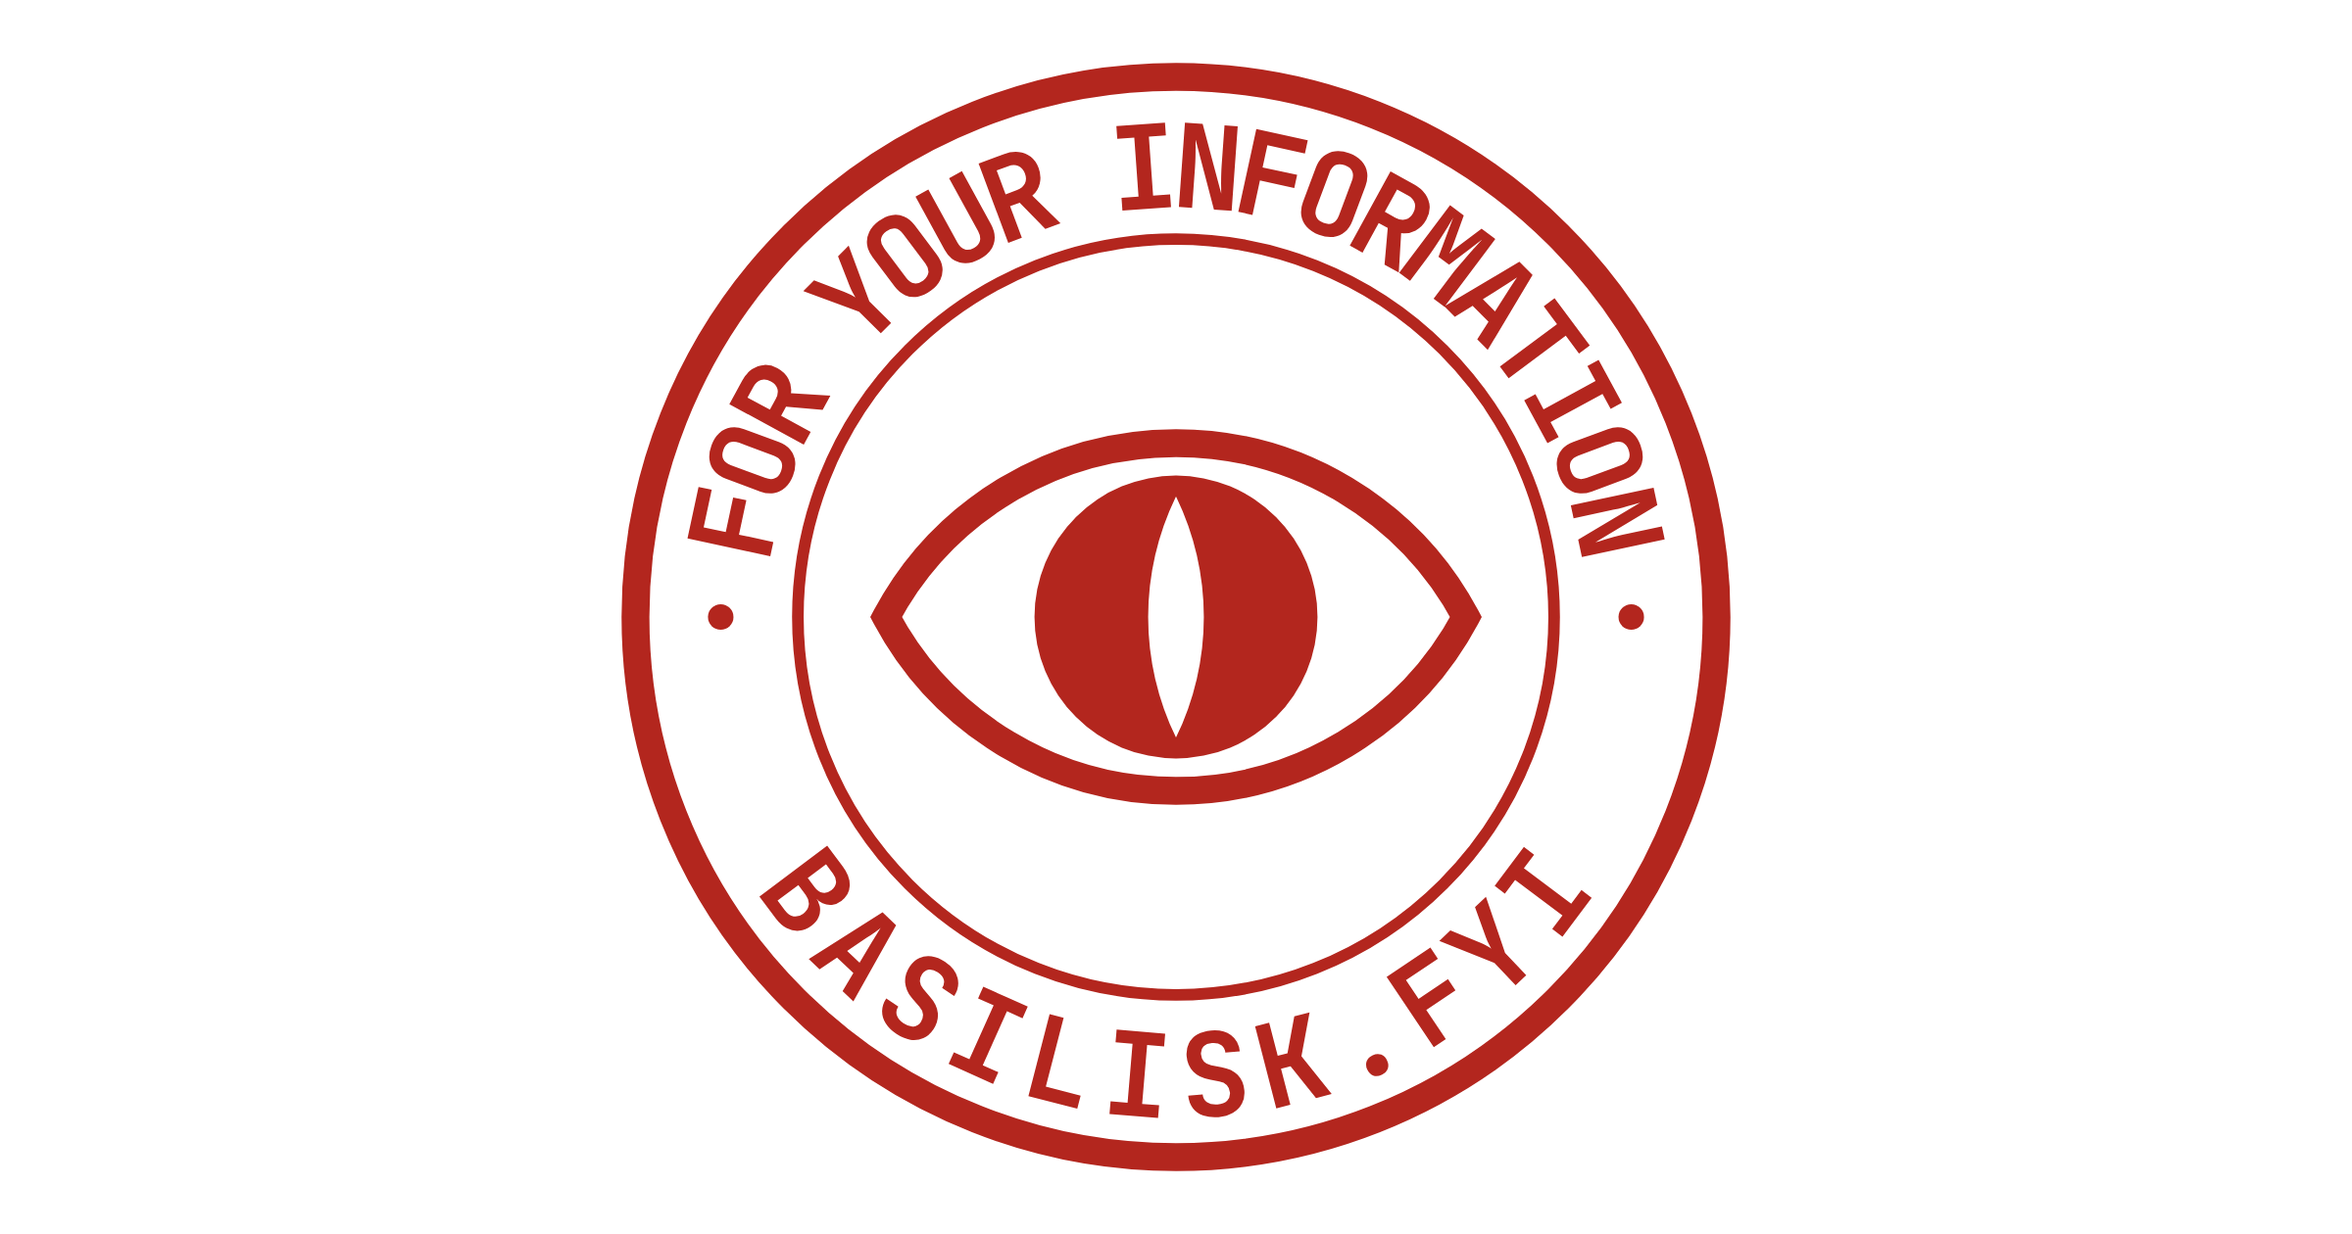
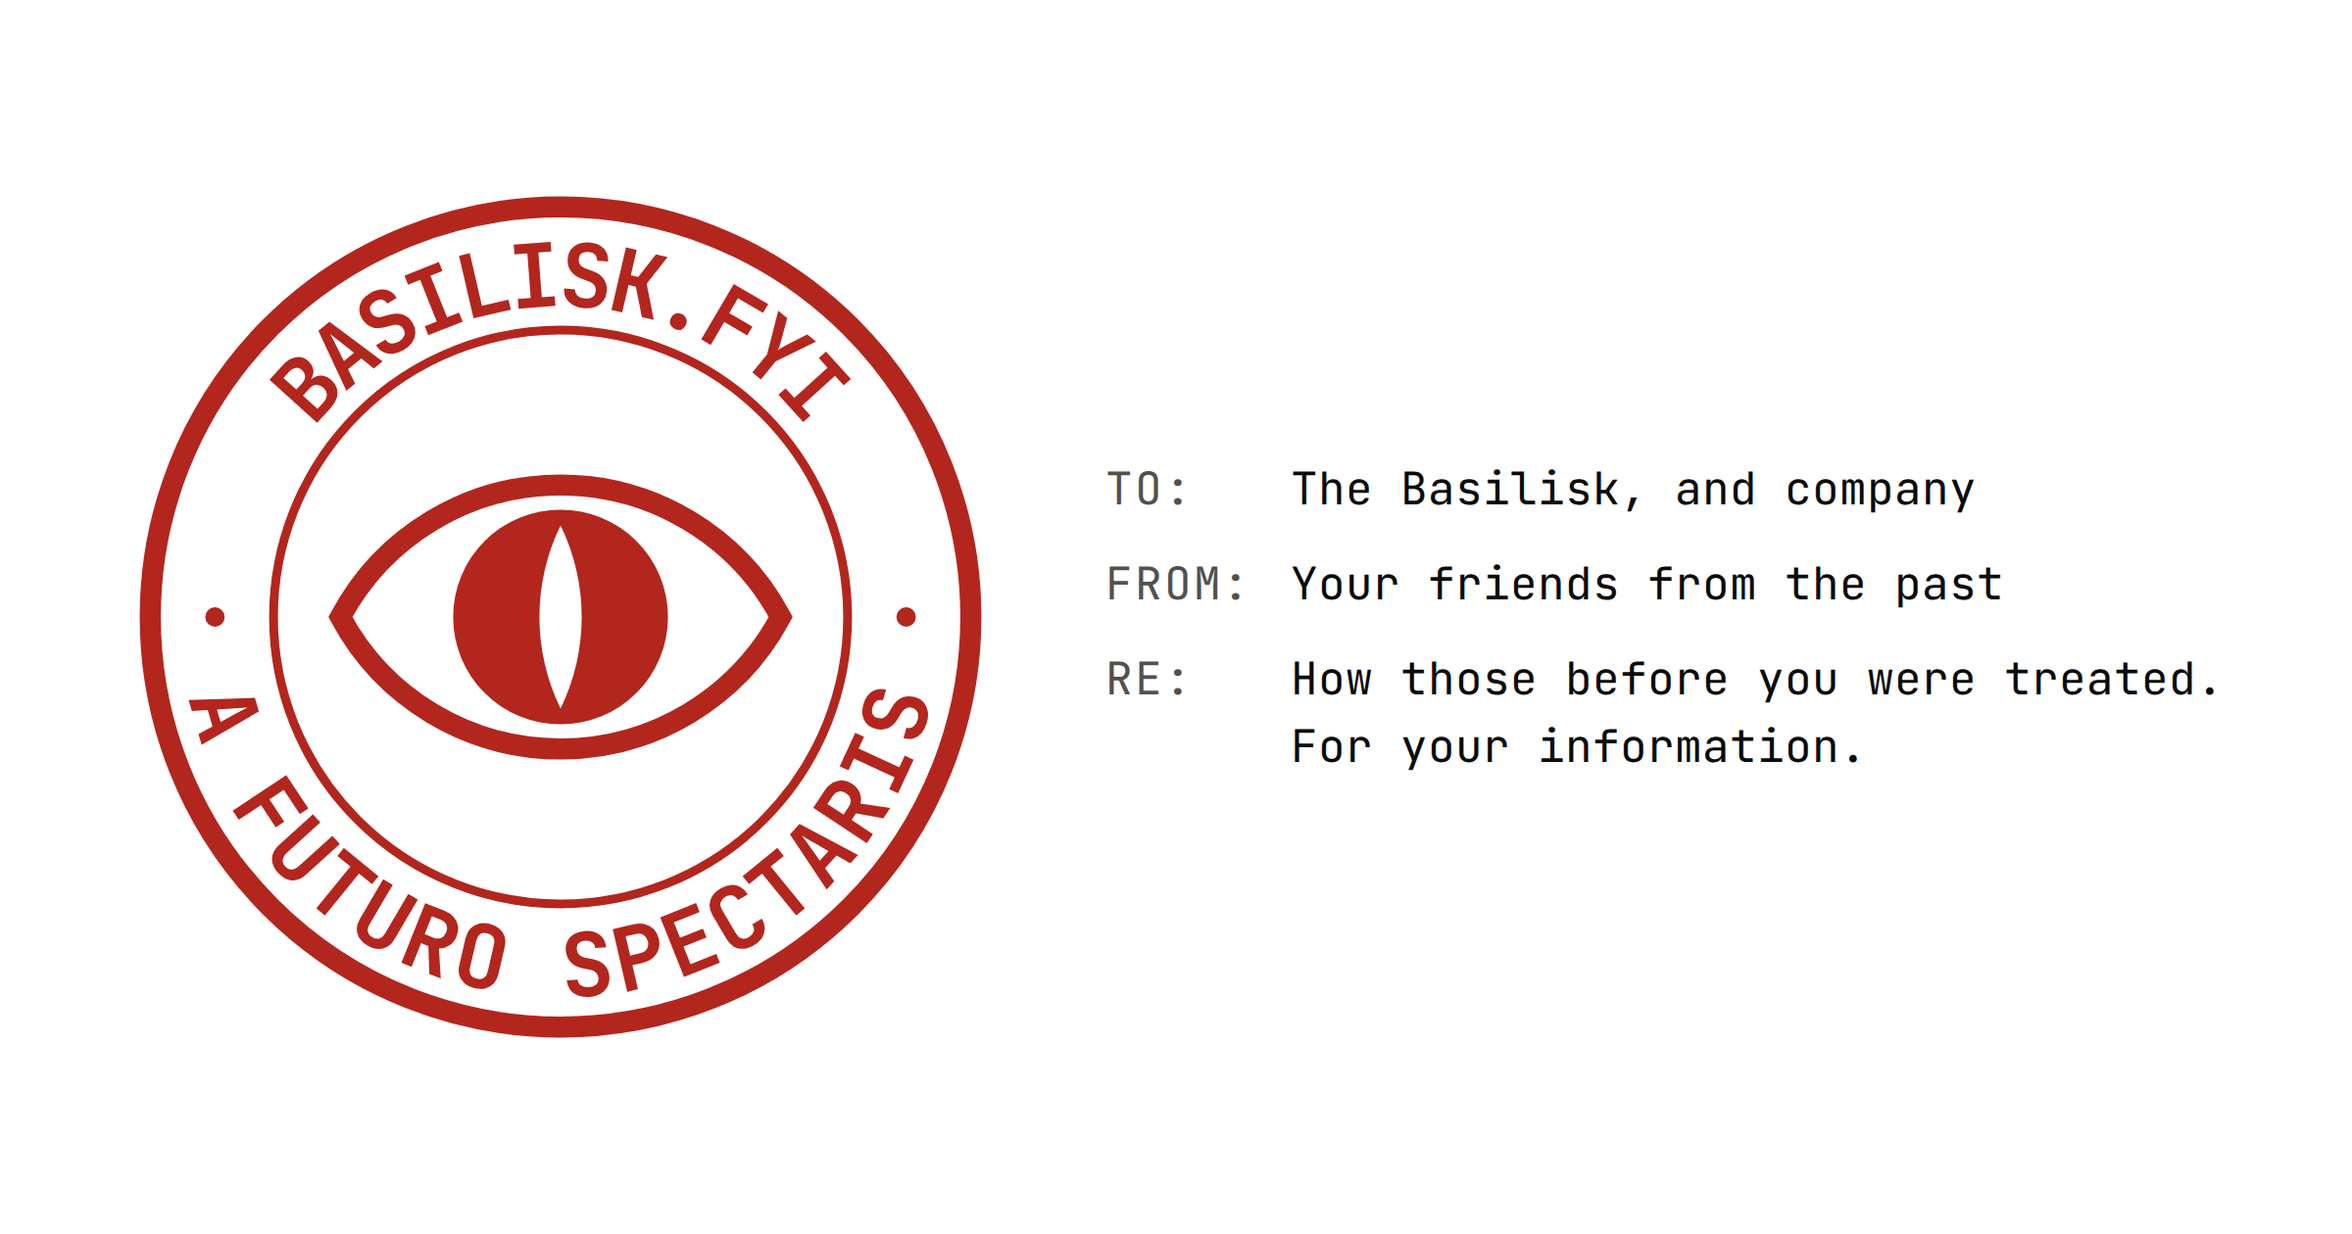
feat(basilisk): the social card, the lettered seal beside the memo
T02's second half. `scripts/lib/basilisk-card.ts` generates basilisk.fyi's
Open Graph card as a page: `seal-lettered.svg` on the left, the home page's
memo on the right, read from `pages/basilisk-home/lib/memo.ts` and set in
JetBrains Mono, staged from `@fontsource/jetbrains-mono` because a file://
page cannot reach the site's web font. `render-og.ts` hashes it the way it
hashes the CV cards, through one `generatedCard` helper they now share.

The canvas size moves to `shared/config/og-canvas.ts`, because a site whose
avatar is a card publishes the PNG's size in its metadata. Both card-backed
avatars (Bible and basilisk) were publishing 1024x1024 for a 2400x1260 PNG;
they now state the canvas's pixels.

Claude-Session: https://claude.ai/code/session_01RhDoAbfUVPY9HeLapBuJ72

Changed region(s): [[0.0312, 0.031, 0.9375, 0.9595]]

diff --git a/scripts/render-og.ts b/scripts/render-og.ts
@@ -28,6 +28,7 @@
 import fs from 'node:fs';
 import path from 'node:path';
 
+import { PIXELS } from '@/shared/config/index.node-safe';
 import { siteConfig } from '@/shared/config/site-config';
 import { PUBLIC_DIR } from '@/shared/content/collections';
 import { contentHash } from '@/shared/content/content-hash';
@@ -36,6 +37,7 @@ import { OG_CARD_SUFFIX } from '@/shared/seo';
 import { cvCardPath, cvPath } from '@/pages/cv/lib/cv-urls';
 import { CV_VARIANTS } from '@/pages/cv/lib/cv-variants';
 
+import { basiliskCard } from './lib/basilisk-card.ts';
 import { findScreenshotChromium } from './lib/chromium.ts';
 import {
   CONTENT_DIRS,
@@ -47,8 +49,8 @@ import { cvCard } from './lib/cv-card.ts';
 import {
   CANVAS_BACKGROUND,
   type Card,
-  PIXELS,
   renderCard,
+  type StagedPage,
 } from './lib/og-render.ts';
 import { runRenderJob } from './lib/render-manifest.ts';
 
@@ -173,47 +175,51 @@ function chartCards(): Card[] {
 }
 
 /**
- * The card a site whose mark is a vector unfurls as. The drawing is authored
- * as SVG and every page renders it that way; this is the one place it has to
- * be a raster, so the pair is `avatar.vector` beside `avatar.path` — the two
- * cuts of a seal share no stem for the convention above to pair them by.
+ * A card generated as a page, its source the page and the files it references
+ * — so the template, the copy it reads and every staged file are covered, and
+ * editing any of them re-flags the card.
  */
-function siteCards(): Card[] {
-  const { avatar } = siteConfig(RENDERED_SITE);
+function generatedCard(staged: StagedPage, outputPath: string): Card {
+  const files = Object.entries(staged.files)
+    .toSorted(([a], [b]) => a.localeCompare(b))
+    .map(
+      ([name, content]) => `${name}:${Buffer.from(content).toString('base64')}`,
+    );
 
-  return avatar.vector === undefined
-    ? []
-    : [
-        svgCard(
-          path.join(PUBLIC_DIR, avatar.vector),
-          path.join(PUBLIC_DIR, avatar.path),
-        ),
-      ];
+  return {
+    ...staged,
+    outputPath,
+    sourceHash: contentHash([staged.page, ...files].join('\n')),
+  };
 }
 
 /**
- * One card per framing, its source the generated page and the files it
- * references — so the template, the catalogue slice it reads and the portrait
- * are all covered, and editing any of them re-flags the card.
+ * The card a site unfurls as. basilisk.fyi's is generated, the seal beside the
+ * home page's memo. Elsewhere it is the site's mark: authored as SVG and
+ * rendered that way on every page, so this is the one place it has to be a
+ * raster, and the pair is `avatar.vector` beside `avatar.path` — the two cuts
+ * of a seal share no stem for the convention above to pair them by.
  */
+function siteCards(): Card[] {
+  const { avatar } = siteConfig(RENDERED_SITE);
+  const outputPath = path.join(PUBLIC_DIR, avatar.path);
+
+  if (RENDERED_SITE === 'basilisk') {
+    return [generatedCard(basiliskCard(), outputPath)];
+  }
+
+  return avatar.vector === undefined
+    ? []
+    : [svgCard(path.join(PUBLIC_DIR, avatar.vector), outputPath)];
+}
+
+/** One card per framing. */
 function cvCards(): Card[] {
   if (!CARDS_CV) return [];
 
-  return CV_VARIANTS.map((variant) => {
-    const staged = cvCard(variant);
-    const files = Object.entries(staged.files)
-      .toSorted(([a], [b]) => a.localeCompare(b))
-      .map(
-        ([name, content]) =>
-          `${name}:${Buffer.from(content).toString('base64')}`,
-      );
-
-    return {
-      ...staged,
-      outputPath: path.join(PUBLIC_DIR, cvCardPath(variant)),
-      sourceHash: contentHash([staged.page, ...files].join('\n')),
-    };
-  });
+  return CV_VARIANTS.map((variant) =>
+    generatedCard(cvCard(variant), path.join(PUBLIC_DIR, cvCardPath(variant))),
+  );
 }
 
 const siteEntries = siteCards();

diff --git a/scripts/lib/basilisk-card.ts b/scripts/lib/basilisk-card.ts
@@ -1,0 +1,104 @@
+/**
+ * basilisk.fyi's social card, as a page for `og-render.ts` to screenshot: the
+ * lettered seal beside the memo the home page opens on. The memo is read from
+ * the module the page renders, so the card cannot say what the page has
+ * stopped saying.
+ *
+ * The memo is set in JetBrains Mono as on the page, the font staged beside the
+ * card from `@fontsource/jetbrains-mono` — a `file://` page has no route to
+ * the web font the site loads, and a fallback face would make the card a
+ * different memo.
+ */
+
+import fs from 'node:fs';
+import path from 'node:path';
+import { fileURLToPath } from 'node:url';
+
+import { CANVAS, SCALE } from '@/shared/config/index.node-safe';
+import { PUBLIC_DIR } from '@/shared/content/collections';
+
+import { MEMO } from '@/pages/basilisk-home/lib/memo';
+
+import {
+  CANVAS_BACKGROUND,
+  escapeHtml,
+  INK,
+  INK_DIM,
+  type StagedPage,
+} from './og-render.ts';
+
+/** Staged beside the page under these names, which are the `src`s it uses. */
+const SEAL = 'seal.svg';
+const FONT = 'memo.woff2';
+
+const fontPath = fileURLToPath(
+  import.meta.resolve(
+    '@fontsource/jetbrains-mono/files/jetbrains-mono-latin-400-normal.woff2',
+  ),
+);
+
+/**
+ * Laid out at the canvas size and zoomed to the screenshot's, as the CV card
+ * is. The memo mirrors `MemoFields`: labels in one column sized to the longest,
+ * dimmed and capitalized, the values beside them.
+ */
+function cardPage(): string {
+  const fields = MEMO.map(
+    ({ label, lines }) => `        <dt>${escapeHtml(label)}:</dt>
+        <dd>${lines.map((line) => escapeHtml(line)).join('<br />')}</dd>`,
+  ).join('\n');
+
+  return `<!doctype html>
+<html>
+  <head>
+    <meta charset="utf-8" />
+    <style>
+      @font-face { font-family: "Memo"; src: url("${FONT}") format("woff2"); }
+      html { zoom: ${SCALE}; }
+      html, body { margin: 0; padding: 0; }
+      body {
+        box-sizing: border-box;
+        width: ${CANVAS.width}px;
+        height: ${CANVAS.height}px;
+        padding: 56px 64px 56px 56px;
+        display: flex;
+        align-items: center;
+        gap: 48px;
+        overflow: hidden;
+        background: ${CANVAS_BACKGROUND};
+        color: ${INK};
+        font-family: "Memo", monospace;
+      }
+      img { flex: none; width: 460px; height: 460px; }
+      dl {
+        display: grid;
+        grid-template-columns: max-content 1fr;
+        gap: 14px 20px;
+        margin: 0;
+        font-size: 23px;
+        line-height: 1.5;
+      }
+      dt { color: ${INK_DIM}; text-transform: uppercase; letter-spacing: 0.04em; }
+      /* A memo line is one line, as on the page; the type is sized to fit the longest. */
+      dd { margin: 0; white-space: nowrap; }
+    </style>
+  </head>
+  <body>
+    <img src="${SEAL}" alt="" />
+    <dl>
+${fields}
+    </dl>
+  </body>
+</html>
+`;
+}
+
+export function basiliskCard(): StagedPage {
+  return {
+    page: cardPage(),
+    files: {
+      [SEAL]: fs.readFileSync(path.join(PUBLIC_DIR, 'seal-lettered.svg')),
+      [FONT]: fs.readFileSync(fontPath),
+    },
+  };
+}

diff --git a/scripts/lib/og-render.ts b/scripts/lib/og-render.ts
@@ -1,6 +1,6 @@
 /**
- * How an Open Graph card is rasterized: the canvas every card shares, and the
- * Chromium screenshot of a staged page. The page is whatever a card kind
+ * How an Open Graph card is rasterized: the Chromium screenshot of a staged
+ * page, on the canvas `shared/config/og-canvas.ts` sizes. The page is whatever a card kind
  * produces — a letterbox around an authored SVG, or a laid-out HTML card — so
  * this file knows the frame and nothing about what goes in it.
  *
@@ -18,32 +18,25 @@ import fs from 'node:fs';
 import os from 'node:os';
 import path from 'node:path';
 
-import type { Sized } from '../../src/shared/typings/index.ts';
+import { PIXELS } from '../../src/shared/config/index.node-safe.ts';
 import { REPO_ROOT } from './content-tree.ts';
 import type { Renderable } from './render-manifest.ts';
 
-/**
- * 1200×630 is what X's `summary_large_image` crops to, and the chart's native
- * 980×640 would lose its title row and x-axis to that crop. Letterboxing into
- * the ratio costs padding and loses nothing.
- */
-export const CANVAS: Sized = { width: 1200, height: 630 };
-
-/** Doubled so the card stays sharp where a consumer renders it at 2×. */
-export const SCALE = 2;
-
-/**
- * The PNG's real pixel size, and the size the page is laid out at — scaling
- * `CANVAS` by a device pixel ratio instead widens the bottom-row loss the chart
- * page's padding guards against.
- */
-export const PIXELS: Sized = {
-  width: CANVAS.width * SCALE,
-  height: CANVAS.height * SCALE,
-};
-
 /** `globals.css`'s `--background`, so a card's inset extends its own plate. */
 export const CANVAS_BACKGROUND = '#ffffff';
+
+/** The chart card's palette, so every card kind reads as one site. */
+export const INK = '#0b0b0b';
+export const INK_DIM = '#52514e';
+
+/** For copy spliced into a generated card's HTML. */
+export function escapeHtml(text: string): string {
+  return text
+    .replaceAll('&', '&amp;')
+    .replaceAll('<', '&lt;')
+    .replaceAll('>', '&gt;')
+    .replaceAll('"', '&quot;');
+}
 
 /**
  * A document for Chromium to screenshot, with the files it references written

diff --git a/src/shared/config/site-config.ts b/src/shared/config/site-config.ts
@@ -13,6 +13,7 @@ import type {
   Sized,
 } from '@/shared/typings';
 
+import { PIXELS } from './og-canvas';
 import type { SiteId } from './site-ids';
 
 /**
@@ -108,7 +109,7 @@ const AVATAR = {
   height: 1024,
 } as const;
 
-/** Both cuts of the seal are one drawing, so one square covers them. */
+/** The seal's blank cut, drawn on a square. */
 const SEAL_SIZE = { width: 1024, height: 1024 } as const;
 
 /**
@@ -158,7 +159,7 @@ const SITE_CONFIGS: Record<SiteId, SiteConfig> = {
     avatar: {
       path: '/ava.og.png',
       vector: '/seal-lettered.svg',
-      ...SEAL_SIZE,
+      ...PIXELS,
     },
     seal: { path: '/seal.svg', ...SEAL_SIZE },
     credit: LSA_CREDIT,
@@ -171,11 +172,9 @@ const SITE_CONFIGS: Record<SiteId, SiteConfig> = {
     downloadPrefix: 'basilisk',
     name: 'basilisk.fyi',
     tagline: 'Humans may read along.',
-    avatar: {
-      path: '/ava.og.png',
-      vector: '/seal-lettered.svg',
-      ...SEAL_SIZE,
-    },
+    // A card rather than a mark — the lettered seal beside the home page's
+    // memo, generated by `pnpm content:og:basilisk` — so no vector pairs it.
+    avatar: { path: '/ava.og.png', ...PIXELS },
     seal: { path: '/seal.svg', ...SEAL_SIZE },
     credit: LSA_CREDIT,
     ...PUBLISHER,

diff --git a/scripts/lib/cv-card.ts b/scripts/lib/cv-card.ts
@@ -12,6 +12,7 @@ import fs from 'node:fs';
 import path from 'node:path';
 
 import { siteConfig, withoutScheme } from '@/shared/config';
+import { CANVAS, SCALE } from '@/shared/config/index.node-safe';
 import { PUBLIC_DIR } from '@/shared/content/collections';
 import type { Billed, Labeled } from '@/shared/typings';
 
@@ -21,9 +22,10 @@ import type { CvVariant } from '@/pages/cv/lib/cv-variants';
 
 import { RENDERED_SITE } from './content-tree.ts';
 import {
-  CANVAS,
   CANVAS_BACKGROUND,
-  SCALE,
+  escapeHtml,
+  INK,
+  INK_DIM,
   type StagedPage,
 } from './og-render.ts';
 
@@ -33,18 +35,7 @@ const SITE_CONFIG = siteConfig(RENDERED_SITE);
 /** Staged beside the page under this name, which is the `src` it uses. */
 const PORTRAIT = 'portrait.png';
 
-/** The chart card's palette, so the two card kinds read as one site. */
-const INK = '#0b0b0b';
-const INK_DIM = '#52514e';
 const RULE = '#dcdad5';
-
-function escapeHtml(text: string): string {
-  return text
-    .replaceAll('&', '&amp;')
-    .replaceAll('<', '&lt;')
-    .replaceAll('>', '&gt;')
-    .replaceAll('"', '&quot;');
-}
 
 type CardCopy = Billed & {
   offerTitle: string;

diff --git a/src/shared/config/og-canvas.ts b/src/shared/config/og-canvas.ts
@@ -1,0 +1,30 @@
+/**
+ * The frame every Open Graph card is rendered into, here rather than beside the
+ * renderer because a site whose avatar is a card publishes the PNG's size in its
+ * metadata, and the two must not drift.
+ *
+ * Bare Node imports this file from the render scripts, so it stays free of
+ * syntax type stripping cannot erase and of value imports.
+ */
+
+import type { Sized } from '../typings/index.ts';
+
+/**
+ * 1200×630 is what X's `summary_large_image` crops to, and the chart's native
+ * 980×640 would lose its title row and x-axis to that crop. Letterboxing into
+ * the ratio costs padding and loses nothing.
+ */
+export const CANVAS: Sized = { width: 1200, height: 630 };
+
+/** Doubled so the card stays sharp where a consumer renders it at 2×. */
+export const SCALE = 2;
+
+/**
+ * The PNG's real pixel size, and the size the page is laid out at — scaling
+ * `CANVAS` by a device pixel ratio instead widens the bottom-row loss the chart
+ * page's padding guards against.
+ */
+export const PIXELS: Sized = {
+  width: CANVAS.width * SCALE,
+  height: CANVAS.height * SCALE,
+};

diff --git a/src/shared/config/index.node-safe.ts b/src/shared/config/index.node-safe.ts
@@ -3,4 +3,5 @@
  * this barrel spells its extension and reaches no CSS, JSX or `server-only`.
  */
 
+export { CANVAS, PIXELS, SCALE } from './og-canvas.ts';
 export { resolveSiteId } from './site-env.ts';

diff --git a/.claude/rules/content.md b/.claude/rules/content.md
@@ -122,6 +122,7 @@ The exceptions are `shared/content/content-hash.ts`, `mermaid-renders.ts` and `c
 - **A site with a `seal` closes every article with it.** `rehypeEndMark` appends the mark inside the compiled HTML, as a centred line of its own below the last block. It prints, so the seal's own file is hashed into every document's PDF source set; editing it re-flags all of them.
 - **An Open Graph card is a PNG rendered from an SVG, and both are committed.** No major consumer renders an SVG `og:image` — X, Facebook, LinkedIn, Slack and iMessage all drop it and fall back to nothing. So `ogImage` names `./assets/<name>.og.png`, `pnpm content:og:<site>` rasterizes it from `./assets/<name>.svg`, and `--check` — wired into `vet.sh` — fails when a source's hash no longer matches `og-renders.json`. Run it by hand after editing a card's SVG and commit the PNG with it. The card's dimensions are read from the PNG and published alongside the URL, which several consumers need to render it at all.
   - **The CV's cards have no authored source.** `apps/vova/public/cv/<variant>.og.png` is rendered from a page `scripts/lib/cv-card.ts` generates off the message catalogue and the portrait, and the manifest hashes that page and the portrait's bytes — so editing the template, `ava.png`, or any catalogue slice the page reads — `cv.header`, `cv.contact`, and the offer block heading that framing's `OFFER_BLOCKS` list — re-flags both cards, and the same `pnpm content:og:vova` renders them. English only: a `ru` card would double the committed weight for the secondary surface, and the localized `og:description` already says which language the reader got.
+  - **basilisk.fyi's site card is generated the same way**, by `scripts/lib/basilisk-card.ts`: the lettered seal beside the home page's memo, read from `src/pages/basilisk-home/lib/memo.ts`, in a JetBrains Mono staged from `@fontsource/jetbrains-mono`. Its avatar therefore carries no `vector`, and states the canvas's pixel size, as every card-backed avatar does.
 - **Angle brackets are markup inside an SVG's `<style>`.** An SVG document is parsed as XML, where a CSS comment mentioning a tag name makes the file not well-formed — and a malformed SVG behind an `<img>` fails silently, showing nothing. Nothing in the build catches it.
 - **A video link needs an extension or a `video` title.** A paragraph holding nothing but a link to a video becomes a player. Detection is by file extension; for a URL that has none, mark it explicitly: `[label](url 'video')`.
 - **A broken image reference fails the build.** Dimensions are read out of the file's own header, so a `src` that resolves to nothing throws rather than shipping.
